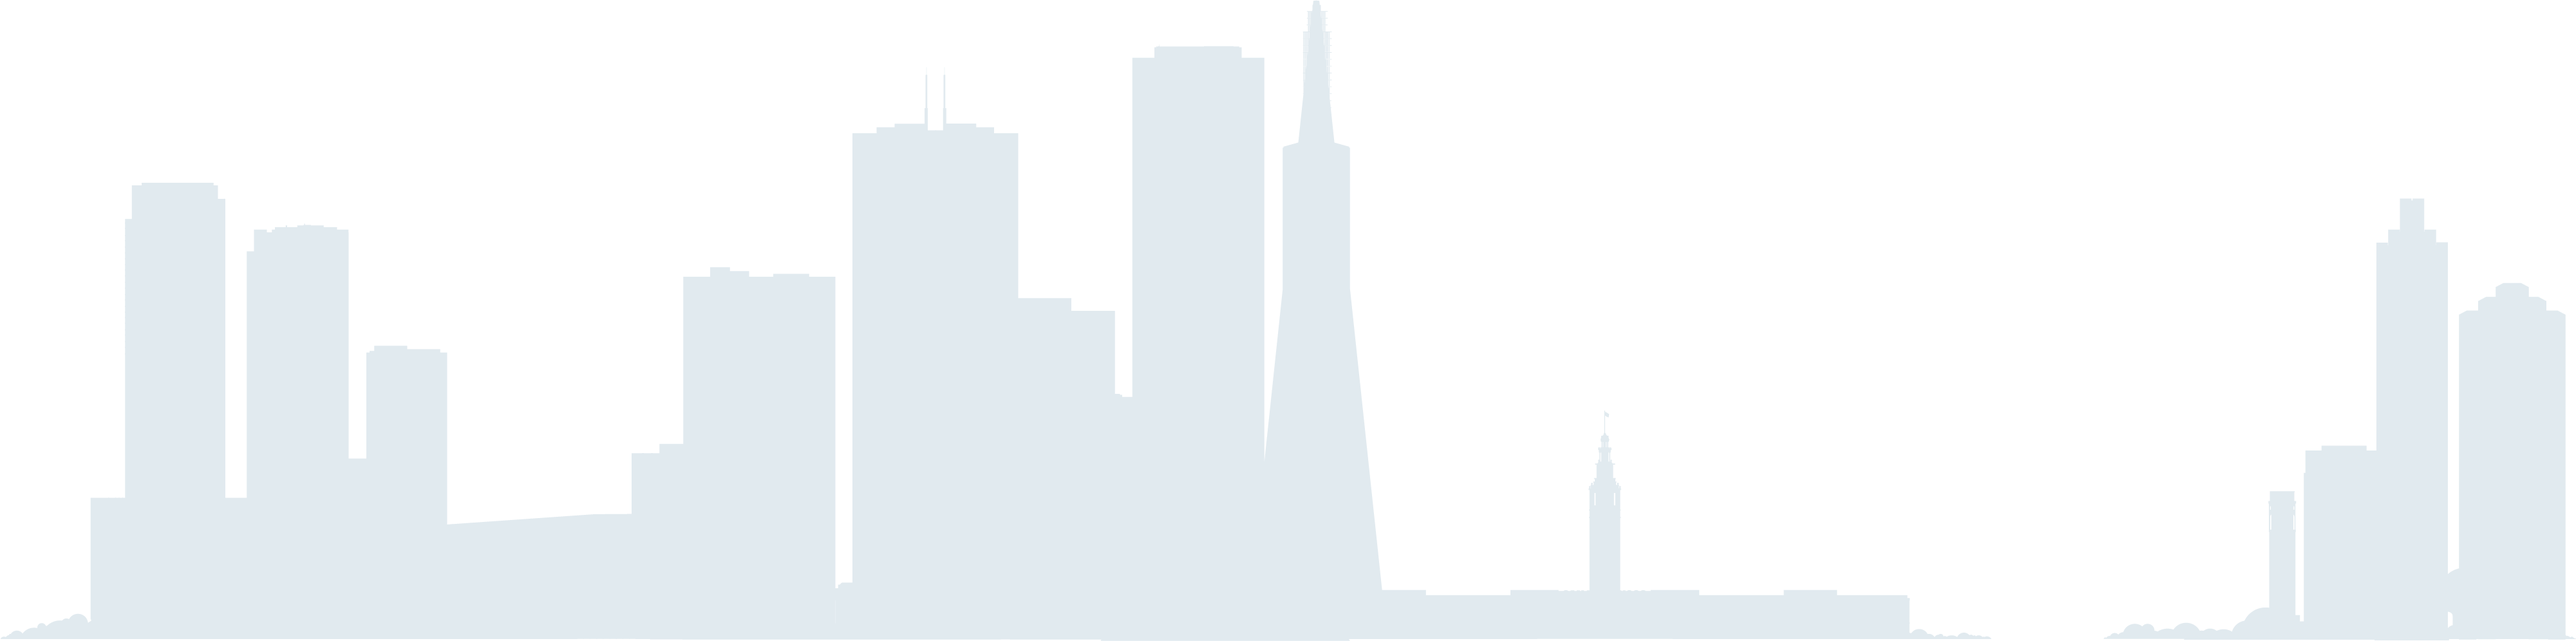
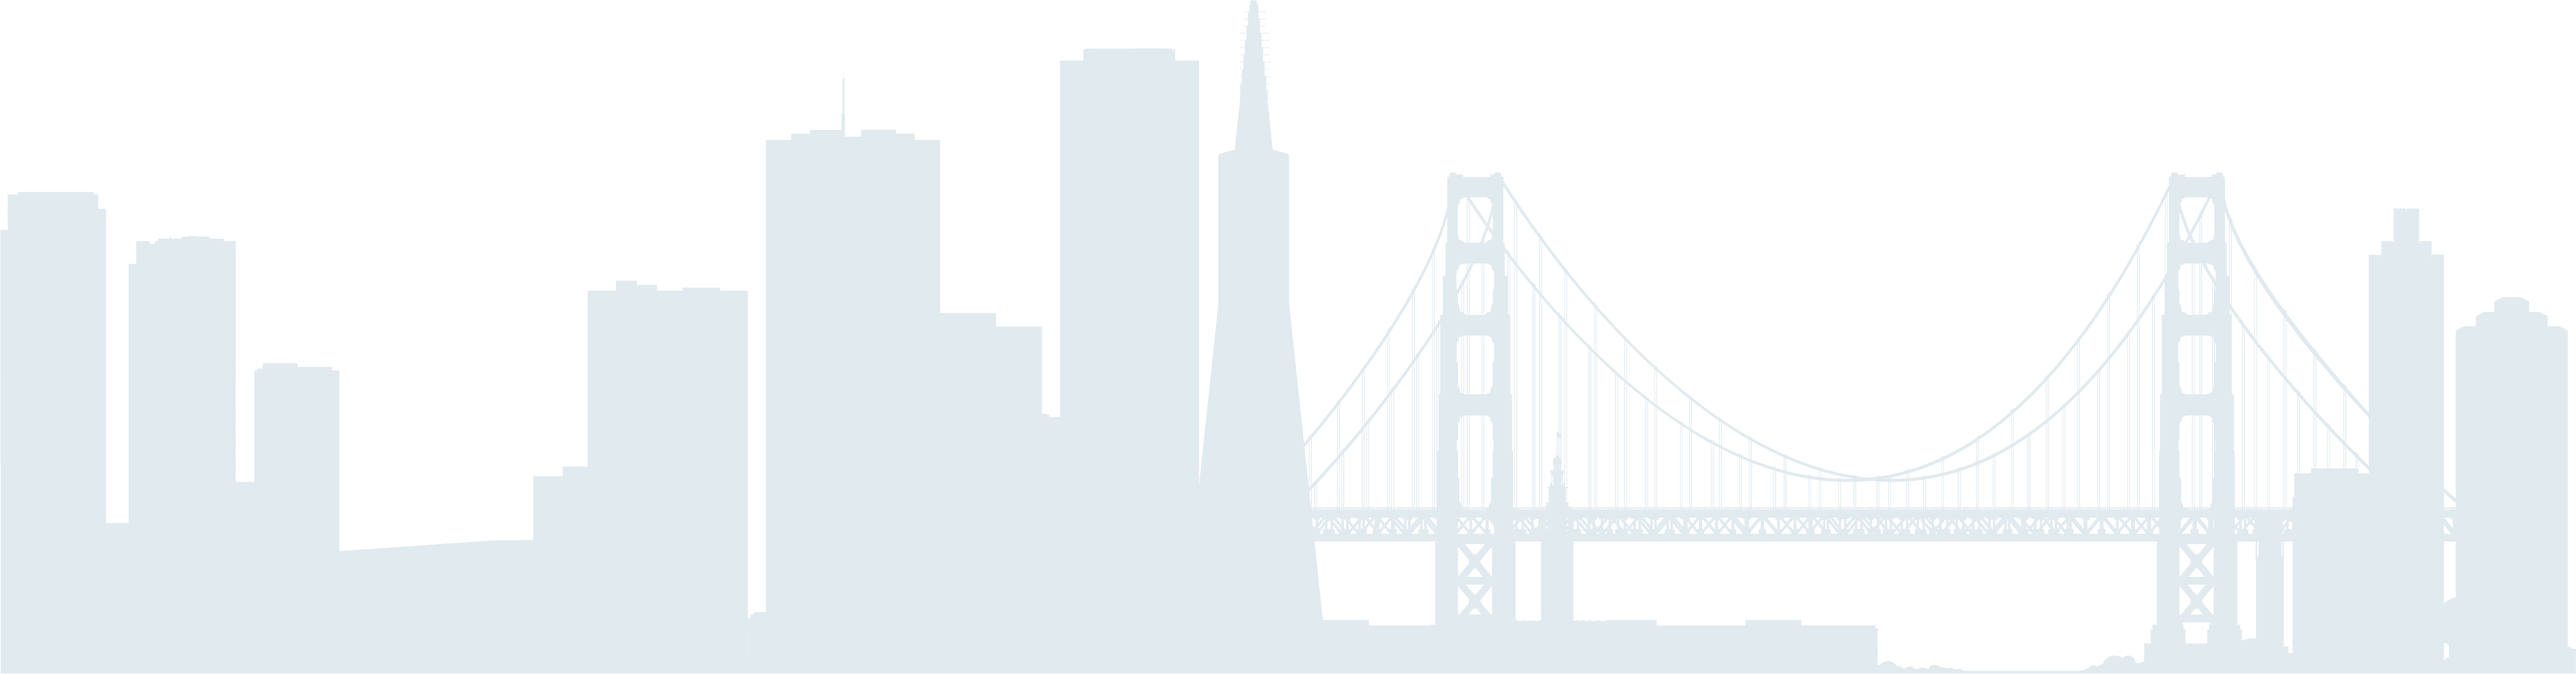
xxx

diff --git a/css/style.css b/css/style.css
@@ -67,6 +67,24 @@ h1
     height: 350px;
 }*/
 
+/*
+offest
+CN toroonoto
+
+webdam 
+sf
+
+Rex
+london - big ben
+
+Premium beat
+Toronoyo maple leaf
+*/
+
+
+
+
+
 .front
 {
   z-index: 650;
@@ -88,8 +106,7 @@ h1
     background-size: contain;
     height: 400px;
     position: relative;
-    /*bottom: 76px;*/
-    bottom: -518px;
+    bottom: -818px;
     left: 700px;
 }
 .monkeyempire.wink{
@@ -107,7 +124,7 @@ h1
 	zoom: 37%;
 	display: none;
 }
-
+/*
 .chopper {
     z-index: 942;
     background: url(../images/chopper.png) no-repeat 0 0;
@@ -117,14 +134,14 @@ h1
     bottom: 82px;
     left: 6%;
 }
-
+*/
 .statueofliberty {
     z-index: 950;
     background: url(../images/statue-of-liberty.png) no-repeat 0 0;
     background-size: contain;
     height: 500px;
     position: relative;
-    bottom: -19px;
+    bottom: -319px;
     left: 3400px;
 }
 
@@ -135,10 +152,20 @@ h1
     background-size: contain;
     height: 100px;
     position: relative;
-    bottom: 76px;
+    bottom: -221px;
     left: 9400px;
 
   }
+
+.goldengate {
+    z-index: 950;
+    background: url(../images/goldengate.png) no-repeat 0 0;
+    background-size: contain;
+    height: 300px;
+    position: relative;
+    bottom: 76px;
+    left: 18202px;
+}
 .nyskyline {
     z-index: 650;
     background: url(../images/nyskyline.png) no-repeat 0 0;

diff --git a/index.html b/index.html
@@ -154,6 +154,8 @@
 
         <div class="apple"></div>
 
+        <div class="goldengate"></div>
+
        <!--  <div class="chopper"></div> -->
 
 
